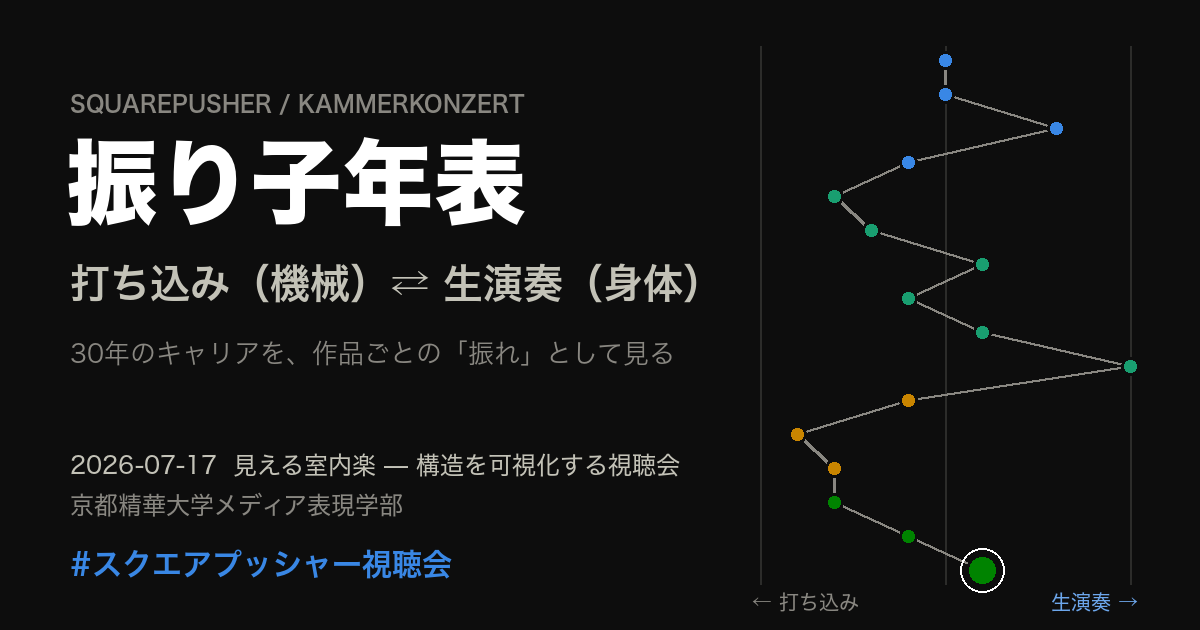
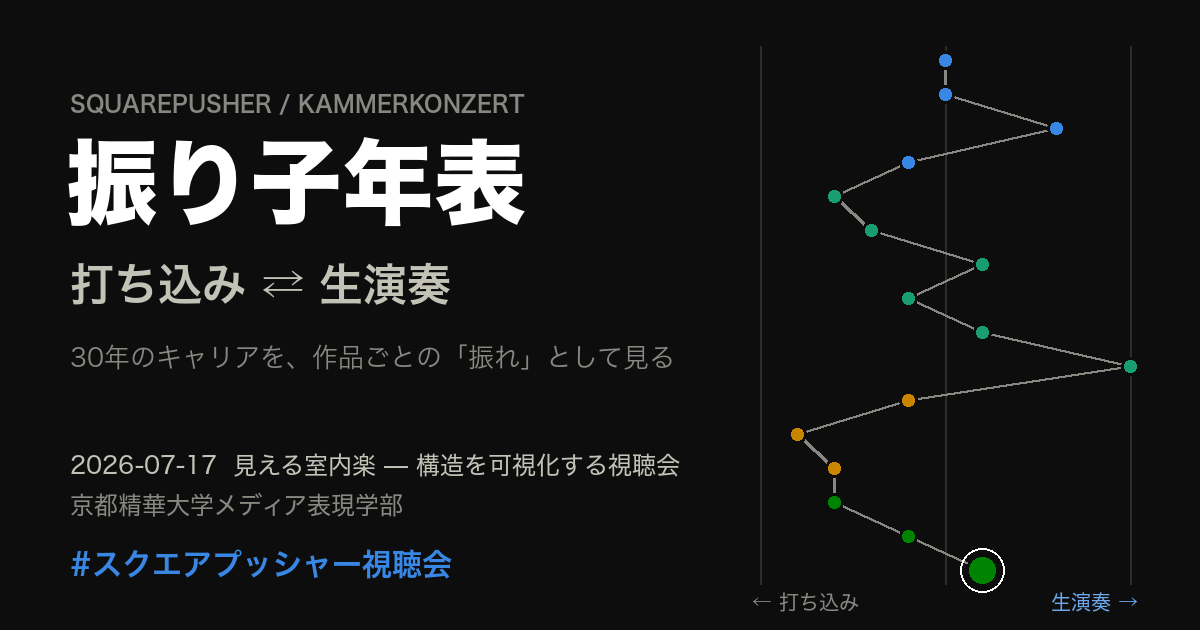
Remove （機械）/（身体） qualifiers from pendulum timeline labels

Changed region(s): [[0.0617, 0.4222, 0.5858, 0.4825], [0.0617, 0.5429, 0.4317, 0.6032], [0.4625, 0.5429, 0.555, 0.6032]]

diff --git a/kammerkonzert-site/timeline/index.html b/kammerkonzert-site/timeline/index.html
@@ -4,10 +4,10 @@
 <meta charset="utf-8">
 <meta name="viewport" content="width=device-width,initial-scale=1">
 <title>Squarepusher 振り子年表｜in the blue shirt</title>
-<meta name="description" content="Squarepusherの30年を「打ち込み（機械）⇄ 生演奏（身体）」の振り子として視覚化した年表。2026-07-17 京都精華大学「見える室内楽 — 構造を可視化する視聴会」関連資料。#スクエアプッシャー視聴会">
+<meta name="description" content="Squarepusherの30年を「打ち込み ⇄ 生演奏」の振り子として視覚化した年表。2026-07-17 京都精華大学「見える室内楽 — 構造を可視化する視聴会」関連資料。#スクエアプッシャー視聴会">
 <meta property="og:type" content="website">
 <meta property="og:title" content="Squarepusher 振り子年表">
-<meta property="og:description" content="Squarepusherの30年を「打ち込み（機械）⇄ 生演奏（身体）」の振り子として視覚化した年表。2026-07-17 京都精華大学「見える室内楽 — 構造を可視化する視聴会」関連資料。#スクエアプッシャー視聴会">
+<meta property="og:description" content="Squarepusherの30年を「打ち込み ⇄ 生演奏」の振り子として視覚化した年表。2026-07-17 京都精華大学「見える室内楽 — 構造を可視化する視聴会」関連資料。#スクエアプッシャー視聴会">
 <meta property="og:url" content="https://intheblueshirt.com/kammerkonzert/timeline/">
 <meta property="og:image" content="https://intheblueshirt.com/kammerkonzert/og.png">
 <meta name="twitter:card" content="summary_large_image">
@@ -119,7 +119,7 @@ svg.pend{position:absolute; inset:0; width:100%; height:100%; pointer-events:non
 <body>
 <div class="wrap">
   <p class="eyebrow">Squarepusher / Kammerkonzert 準備資料</p>
-  <h1>振り子年表 — 打ち込み（機械）⇄ 生演奏（身体）</h1>
+  <h1>振り子年表 — 打ち込み⇄ 生演奏</h1>
   <p class="lede">上から下へ＝時間。横位置＝各作品の「エレクトロニック(0) ⇄ 生演奏(10)」スコア（3軸マッピングと同じ採点）。左に振れるほど打ち込み、右に振れるほど生演奏。折れ線がそのまま30年の振り子運動になる。</p>
   <div class="legend">
     <span class="lg"><span class="dot" style="background:var(--d90)"></span>1990s</span>
@@ -132,7 +132,7 @@ svg.pend{position:absolute; inset:0; width:100%; height:100%; pointer-events:non
 </div>
 
 <div class="axisbar"><div class="inner">
-  <div class="axlabels"><span class="l">← 打ち込み（機械）</span><span class="r">生演奏（身体） →</span></div>
+  <div class="axlabels"><span class="l">← 打ち込み</span><span class="r">生演奏 →</span></div>
   <div class="axticks" id="axticks"></div>
 </div></div>
 

diff --git a/kammerkonzert-site/index.html b/kammerkonzert-site/index.html
@@ -37,7 +37,7 @@ a.card span{display:block;color:var(--ink2);font-size:12.5px;margin-top:3px}
   <h1>見える室内楽 — 構造を可視化する視聴会</h1>
   <p class="meta">2026年7月17日（金）18:30｜京都精華大学 友愛館 Y004（完全招待制）<br>講師：有村崚（in the blue shirt）</p>
   <div class="cards">
-    <a class="card" href="timeline/"><b>🎚 振り子年表</b><span>30年のキャリアを「打ち込み（機械）⇄ 生演奏（身体）」の振れとして縦スクロールで辿る</span></a>
+    <a class="card" href="timeline/"><b>🎚 振り子年表</b><span>30年のキャリアを「打ち込み ⇄ 生演奏」の振れとして縦スクロールで辿る</span></a>
     <a class="card" href="map/"><b>🎛 3軸マッピング</b><span>スタジオ作16枚を3つのものさしで採点した散布図。時系列再生・採点理由つき</span></a>
   </div>
   <p class="tag">#スクエアプッシャー視聴会</p>
